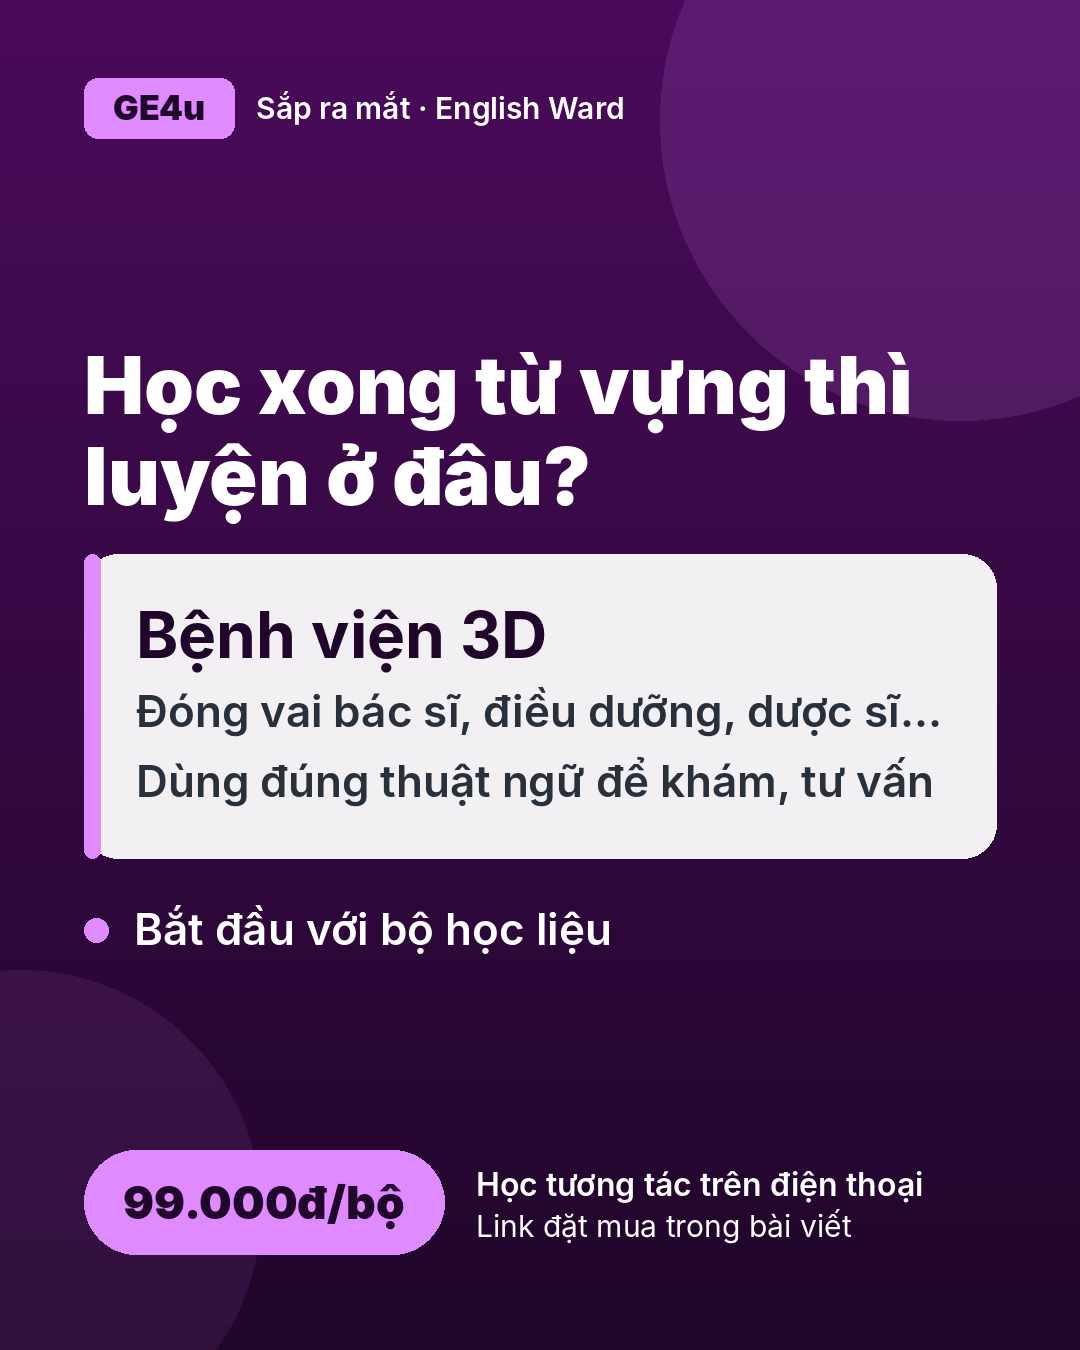
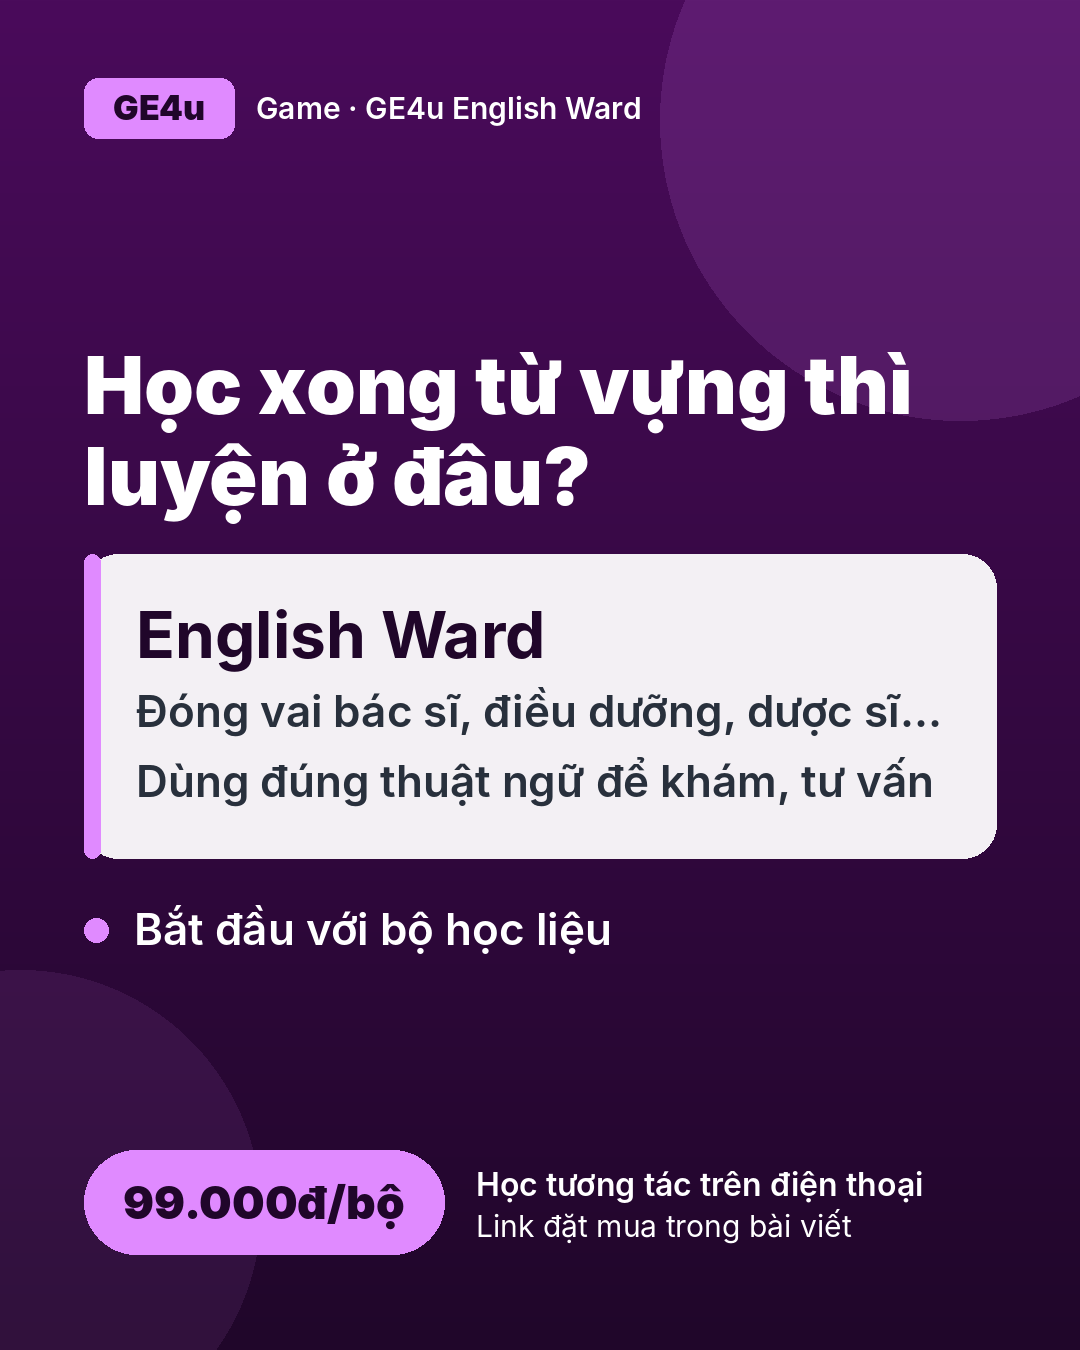
game: rename to GE4u English Ward, drop 3D/General Hospital wording, simpler menu text
Claude-Session: https://claude.ai/code/session_01MEmAvCqD752dccAJJ2r1tQ

Changed region(s): [[0.1528, 0.4356, 0.5194, 0.4978], [0.2444, 0.0622, 0.6111, 0.0933]]

diff --git a/ge4u-hospital-3d.html b/ge4u-hospital-3d.html
@@ -3,7 +3,7 @@
 <head>
 <meta charset="utf-8">
 <meta name="viewport" content="width=device-width, initial-scale=1, maximum-scale=1, user-scalable=no">
-<title>GE4u · Bệnh viện English Ward 3D</title>
+<title>GE4u English Ward</title>
 <link rel="preconnect" href="https://fonts.googleapis.com"><link rel="preconnect" href="https://fonts.gstatic.com" crossorigin><link href="https://fonts.googleapis.com/css2?family=Plus+Jakarta+Sans:wght@400;600;700;800&display=swap" rel="stylesheet">
 <style>
 *{box-sizing:border-box;margin:0}
@@ -72,8 +72,8 @@ html,body{font-family:"Plus Jakarta Sans","Trebuchet MS","Segoe UI",sans-serif;c
 <div id="dlg"><div id="st"></div><div id="voc"></div><div id="chat"></div><div id="opts"></div></div>
 <div class="ov" id="lift" style="display:none"><h1>🛗 Elevator</h1><p>Which floor would you like to go to?</p><div id="liftBtns" style="display:flex;flex-direction:column;gap:8px;align-items:center"></div><button class="big" id="liftX" style="text-align:center">✖ Stay on this floor</button></div>
 <div class="ov" id="menu">
-  <h1>🏥 General Hospital 3D<br>English Ward</h1>
-  <p>3 floors · car park · emergency · 15 departments · lab · X-ray · ultrasound · CT/MRI. Move: WASD / arrow keys or the joystick. Talk: E or the orange button.</p>
+  <h1>🏥 GE4u English Ward</h1>
+  <p>Practise real hospital conversations in English. Move with WASD / arrow keys or the joystick, talk with E or the orange button.</p>
   <button class="big" id="mP">🛵 Visit as a patient<small>Park → reception → consultation → tests and scans → cashier → pharmacy or admission</small></button>
   <button class="big" id="mE">🚑 Emergency patient<small>Arrive by ambulance and go straight to the Emergency Department</small></button>
     <button class="big" id="mR">🎭 Play a health professional<small>Doctor in 15 specialties · Nurse · Midwife · Pharmacist · Dietitian · Epidemiologist · Social worker</small></button>
@@ -1652,7 +1652,7 @@ function buildFloor(f){GRP=FL[f]=new THREE.Group();scene.add(GRP);
   // tường tây (tầng 1 có cửa chính + cửa cấp cứu)
   if(f==1){[[-12.9,-9],[-7,-1.6],[1.6,12.9]].forEach(z=>box(.3,2.4,z[1]-z[0],WALL,-25.2,1.2,(z[0]+z[1])/2));
     box(.08,2.2,1.5,0x9ec9e2,-25.2,1.1,-.8,.45);box(.08,2.2,1.5,0x9ec9e2,-25.2,1.1,.8,.45);
-    const s1=label('🏥 GENERAL HOSPITAL','English Ward General Hospital','#0f8b8d',1.2);s1.position.set(-25.6,3.4,0);add(s1);
+    const s1=label('🏥 ENGLISH WARD','by GE4u','#0f8b8d',1.2);s1.position.set(-25.6,3.4,0);add(s1);
     const s2=label('🚑 EMERGENCY','Emergency entrance','#d7263d');s2.position.set(-25.6,3.2,-8);add(s2)}
   else box(.3,2.4,25.8,WALL,-25.2,1.2,0);
   // thang máy
@@ -1661,7 +1661,7 @@ function buildFloor(f){GRP=FL[f]=new THREE.Group();scene.add(GRP);
   const el=label('🛗 Elevator · Floor '+f,FLOORS[f].split(' · ').slice(0,3).join(' · ')+'…','#455a64');el.position.set(27.5,3.4,0);add(el);
   NP['lift'+f]={g:{position:new THREE.Vector3(28,0,0),visible:true},f,lift:1};
   for(let x=-15;x<=25;x+=10)[-1,1].forEach(s=>plant(x,s*2.5));
-  const fl=label('TẦNG '+f+' · FLOOR '+f,FLOORS[f].slice(0,38)+'…','#10283a',.9);fl.position.set(0,3.6,0);add(fl);
+  const fl=label('FLOOR '+f,FLOORS[f].slice(0,38)+'…','#10283a',.9);fl.position.set(0,3.6,0);add(fl);
   // người đi lại
   const roles=f==1?['vis','nurse','pat','vis','pat']:f==2?['nurse','pat','vis','pat']:['nurse','vis','nurse','pat'];
   roles.forEach((r,i)=>{const g=person(r,r=='vis'?rnd([0xf2c94c,0x6fcf97,0xbb6bd9,0x56ccf2]):0);g.position.set(-18+i*8,0,-1.9+(i%3)*1.7);WALK[f].push({g,d:i%2?1:-1,sp:1+Math.random()*.6})});

diff --git a/ge4u-game-gate.js b/ge4u-game-gate.js
@@ -1,4 +1,4 @@
-// GE4u Hospital 3D — account gate, free-play limit, Premium unlock and GE4u vocabulary.
+// GE4u English Ward — account gate, free-play limit, Premium unlock and GE4u vocabulary.
 // Loaded as a module after the game script. Accounts use Firebase Authentication;
 // entitlements and premium vocabulary live in Firestore (see firebase/firestore.rules).
 import { initializeApp } from "https://www.gstatic.com/firebasejs/10.14.1/firebase-app.js";
@@ -43,7 +43,7 @@ document.head.append(css);
 const gate = document.createElement("div");
 gate.id = "g4gate";
 gate.innerHTML = `<div class="card">
-  <h2>🏥 English Ward 3D</h2>
+  <h2>🏥 GE4u English Ward</h2>
   <p>Create a free account to play. Free: ${FREE_CASES_PER_DAY} games a day and unlimited hospital tours. Premium: unlimited games plus the GE4u learning-pack vocabulary.</p><p style="font-size:12.5px">Tạo tài khoản miễn phí để chơi.</p>
   <button class="pri" id="g4google">Continue with Google</button>
   <p style="text-align:center">or use email</p>

diff --git a/index.html b/index.html
@@ -18,7 +18,7 @@
 <a href="#flashcards">Luyện flashcards</a>
 <a href="#wordbank">Tra cứu thuật ngữ</a>
 <a href="ge4u-health-sciences.html">Các ngành sức khỏe</a>
-<a href="ge4u-hospital-3d.html">🏥 Game Bệnh viện 3D</a>
+<a href="ge4u-hospital-3d.html">🏥 Game English Ward</a>
 </div>
 <p class="hero-note">Trọng tâm: Y khoa · Mở rộng: Dược, Điều dưỡng, Dinh dưỡng và các ngành sức khỏe khác.</p>
 </div></header>
